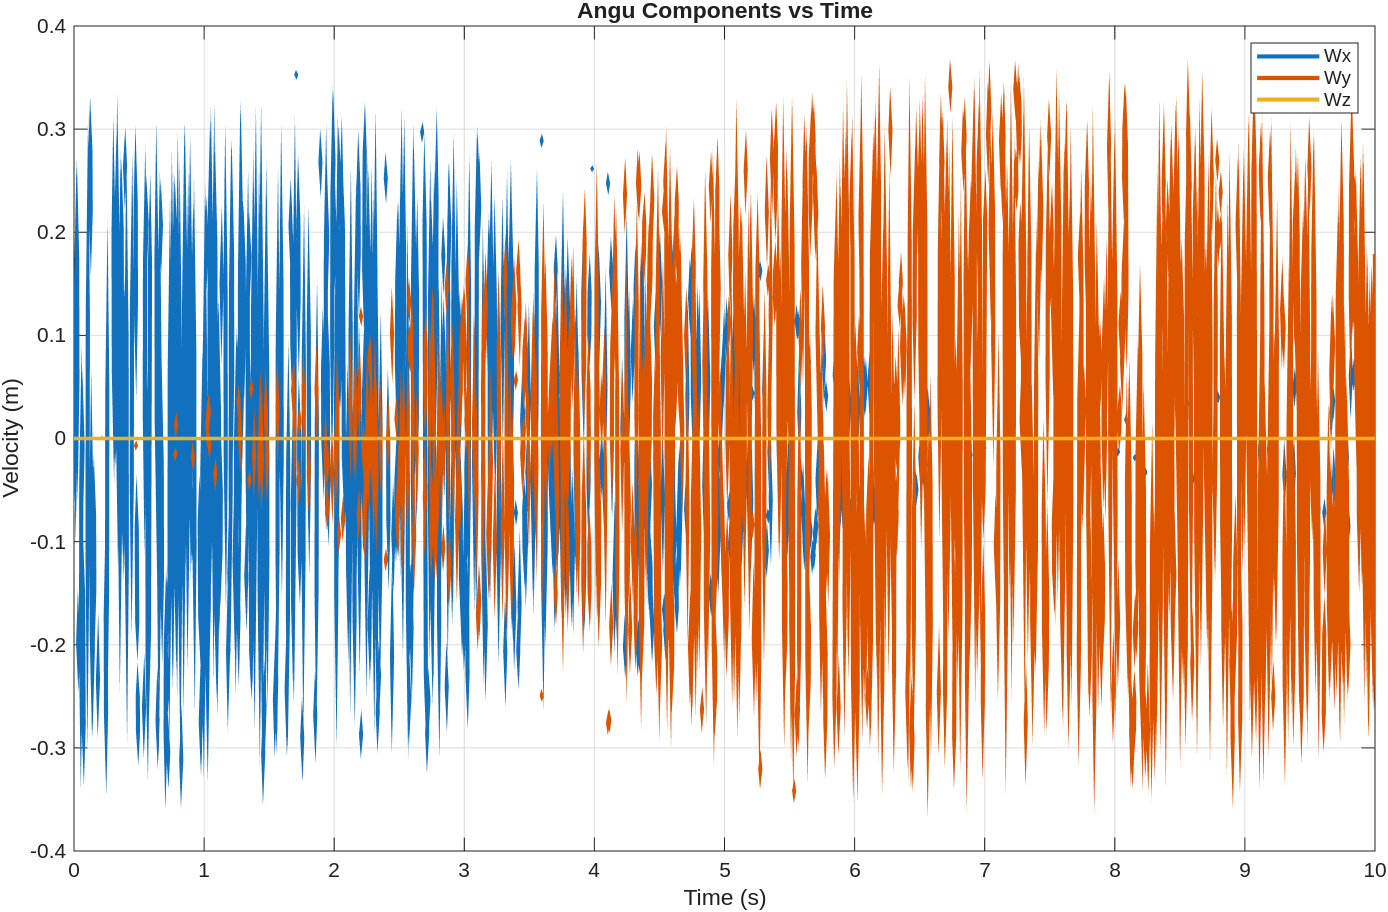
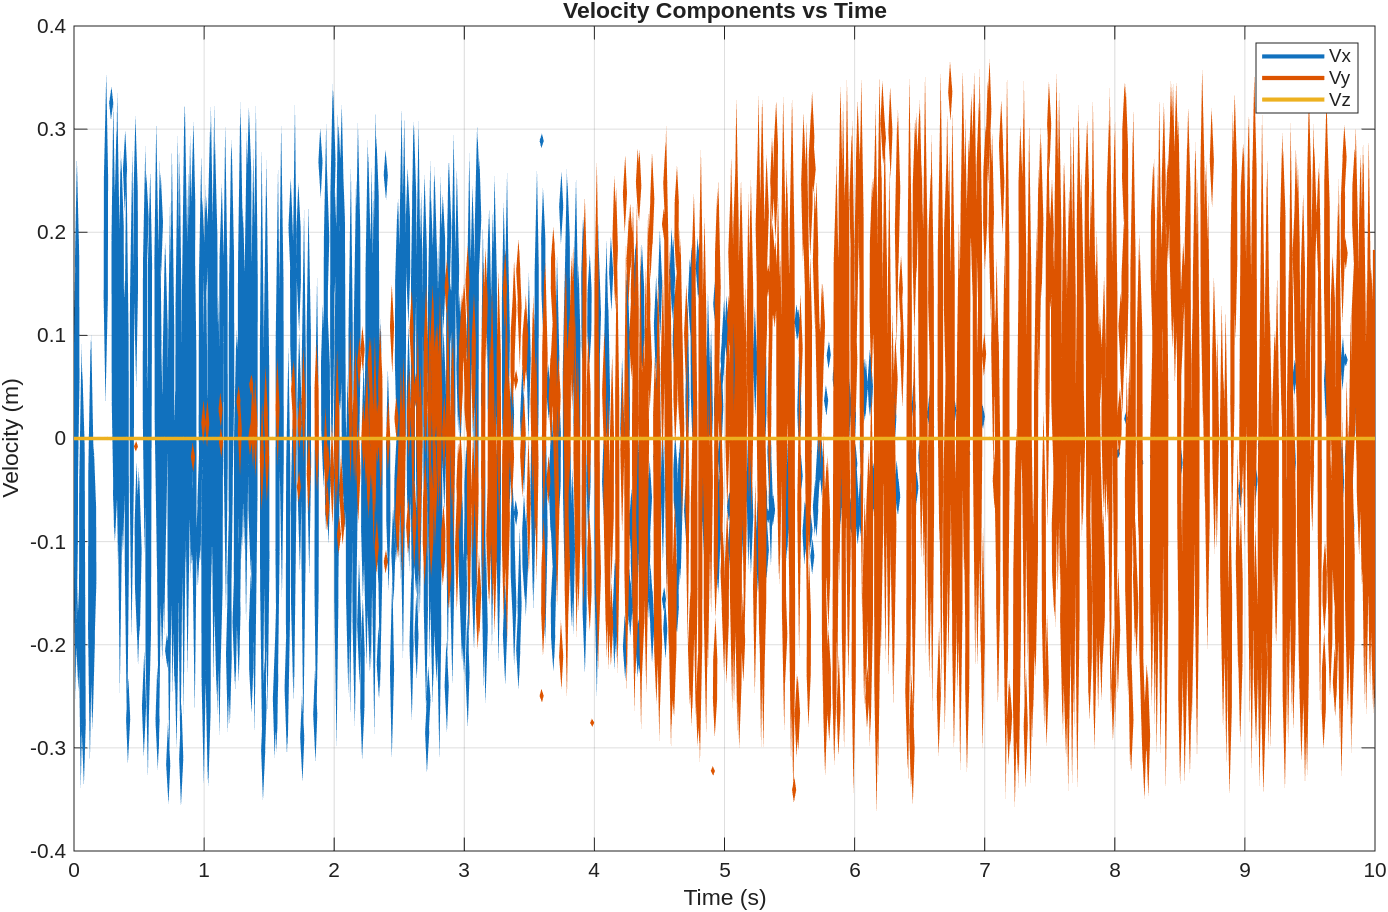
fixed a figure

Changed region(s): [[0.031, 0.0614, 0.9914, 0.8596], [0.4027, 0.0, 0.6506, 0.0307], [0.1859, 0.7982, 0.2169, 0.8289]]

diff --git a/v.m b/v.m
@@ -14,8 +14,8 @@ hold on;
 plot(t_fine, vel_interp(:,2), 'LineWidth', 2);
 plot(t_fine, vel_interp(:,3), 'LineWidth', 2);
 
-title('Angu Components vs Time');
+title('Velocity Components vs Time');
 xlabel('Time (s)');
 ylabel('Velocity (m)');
-legend('Wx','Wy','Wz');
+legend('Vx','Vy','Vz');
 grid on;
